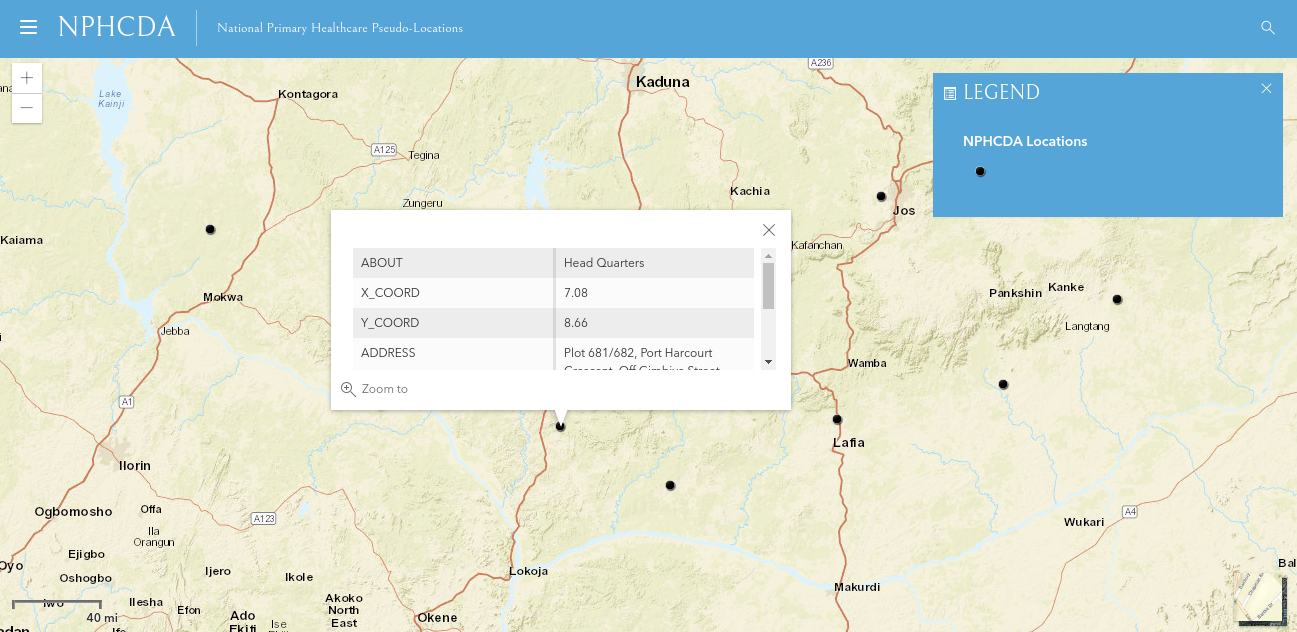
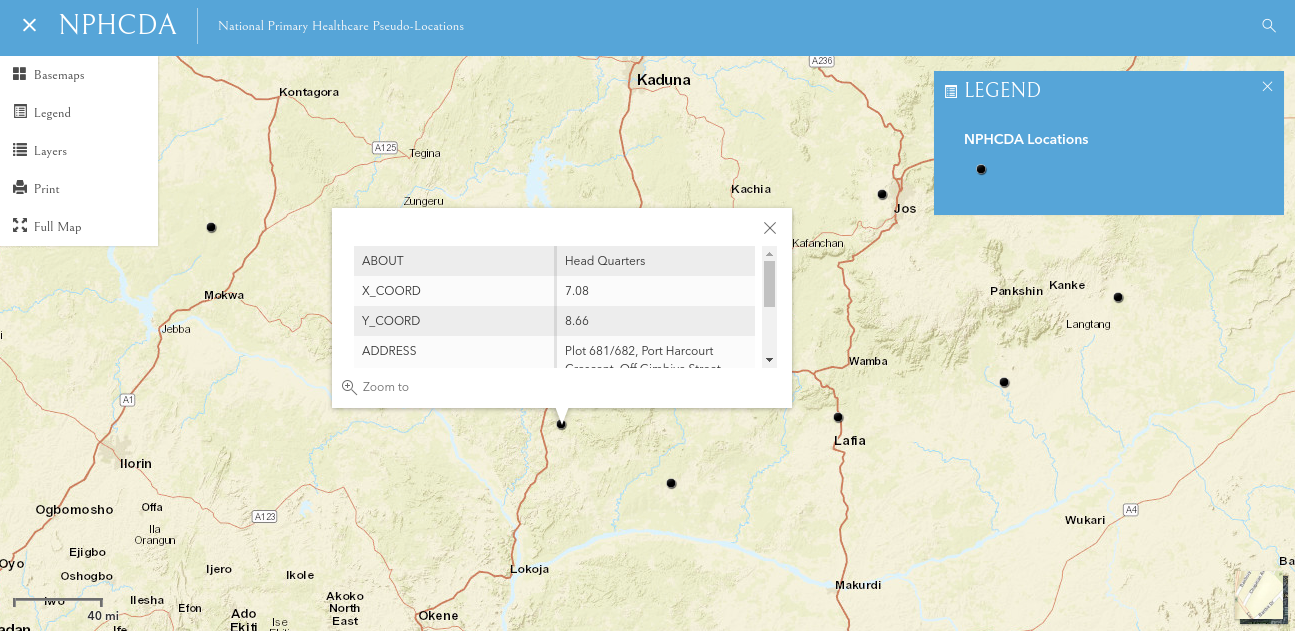
demo

diff --git a/README.md b/README.md
@@ -1,0 +1,27 @@
+# Web map
+A simple web map interface showing false primary health care locations in Nigeria. :stuck_out_tongue_winking_eye:
+
+## To use:
+* Clone the repo: `git clone https://github.com/bayoishola20/webapp2.git`
+
+
+## Some features:
+
+* Switch base maps
+* Print view
+* Search
+
+
+
+![Preview](https://github.com/bayoishola20/webapp2/blob/master/assets/img/bayoishola20_webapp2.png "Preview")
+
+Personal site: [bayoishola20](github.bayoishola20.io)
+
+[Live view of project](https://nphcda.herokuapp.com/) 
+
+Link
+
+
+### PS:
+* Point data are loaded on ESRI's ArcGIS portal on a trial license and may not be available after some time. You could help pay for a subscription :winking_eye:
+* Harp.js, which is a result of the package.json file, was used to "trick" heroku to deploy these static files.
